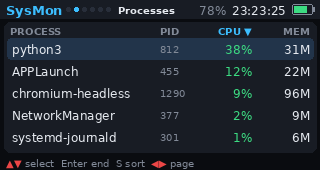
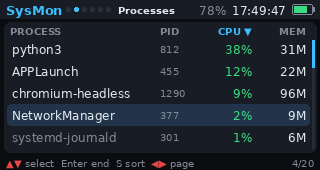
SysMon 1.1.5: scrolling list of top 20 processes
Processes page now keeps the top 20 by CPU or memory in a scrolling list (F/X to scroll) with a scroll bar and position counter. The highlight follows the selected process when the list re-sorts. System (root-owned) processes are shown in gray, and the end-process prompt explains they need admin rights. Addresses #1.

diff --git a/sysmon.py b/sysmon.py
@@ -5,7 +5,7 @@ Draws straight to the Linux framebuffer (320x170) with Pillow.
 
 Pages
   1 Overview   CPU total/cores/history, RAM, temperature, battery
-  2 Processes  top 5 by CPU or memory, end a process from the keyboard
+  2 Processes  top 20 by CPU or memory (scrolls), end a process from the keyboard
   3 Network    interfaces, Wi-Fi signal, live download/upload speed graph
   4 Power      temperature history, battery time estimate, disk, uptime
   5 Level      bubble level from the BMI270 motion sensor
@@ -44,7 +44,7 @@ try:
 except ImportError:
     HAS_NUMPY = False
 
-VERSION = "1.1.4"
+VERSION = "1.1.5"
 
 # --------------------------------------------------------------------------
 # Constants
@@ -58,6 +58,8 @@ TEMP_HISTORY = 240    # seconds
 SOUND_HISTORY = 100   # samples at ~10 Hz
 BUBBLE_RANGE_DEG = 18.0  # same full-scale tilt as the official Compass app
 
+PROC_LIST = 20      # processes kept in the scrolling list
+PROC_ROWS = 5       # rows visible at once
 PAGES = ["Overview", "Processes", "Network", "Power", "Level", "Sound"]
 P_OVERVIEW, P_PROCS, P_NET, P_POWER, P_LEVEL, P_SOUND = range(6)
 FRAME_INTERVAL = {P_LEVEL: 1.0 / 15, P_SOUND: 1.0 / 10}  # others: 1 s
@@ -499,6 +501,7 @@ class ProcStats:
                     stat = f.read()
                 with open(pid_dir + "/statm") as f:
                     rss_pages = int(f.read().split()[1])
+                uid = os.stat(pid_dir).st_uid
             except (OSError, ValueError, IndexError):
                 continue
             lp, rp = stat.find("("), stat.rfind(")")
@@ -517,7 +520,7 @@ class ProcStats:
             cpu = 0.0
             if dt and pid in self.prev:
                 cpu = 100.0 * (ticks - self.prev[pid]) / (dt * CLK_TCK)
-            rows.append({"pid": pid, "name": name, "cpu": max(0.0, cpu), "rss": rss_mb,
+            rows.append({"pid": pid, "name": name, "uid": uid, "cpu": max(0.0, cpu), "rss": rss_mb,
                          "mem": 100.0 * rss_mb / max(1.0, mem_total_mb)})
         self.ready = dt is not None
         self.prev, self.prev_t = cur, now
@@ -528,8 +531,14 @@ class ProcStats:
         key = "cpu" if self.sort_by == "cpu" else "rss"
         self.rows.sort(key=lambda r: (r[key], r["rss"]), reverse=True)
 
-    def top(self, n=5):
+    def top(self, n=PROC_LIST):
         return self.rows[:n]
+
+    def index_of(self, pid, n=PROC_LIST):
+        for i, r in enumerate(self.rows[:n]):
+            if r["pid"] == pid:
+                return i
+        return None
 
 
 # -- motion sensor ---------------------------------------------------------
@@ -1023,25 +1032,49 @@ class Renderer:
         d.text((160, 25), "PID", font=self.f_smb, fill=DIM)
         self.text_right(d, 252, 25, "CPU" + (" ▼" if sort_cpu else ""), self.f_smb,
                         CYAN if sort_cpu else DIM)
-        self.text_right(d, 310, 25, "MEM" + ("" if sort_cpu else " ▼"), self.f_smb,
+        self.text_right(d, 306, 25, "MEM" + ("" if sort_cpu else " ▼"), self.f_smb,
                         DIM if sort_cpu else CYAN)
-        rows = procs.top(5)
+        rows = procs.top()
+        # keep the highlight on the same process when the list re-sorts
+        idx = procs.index_of(ui.get("sel_pid"))
+        if idx is not None:
+            ui["sel"] = idx
+        ui["sel"] = min(ui["sel"], max(0, len(rows) - 1))
+        first = ui.get("first", 0)
+        if ui["sel"] < first:
+            first = ui["sel"]
+        elif ui["sel"] >= first + PROC_ROWS:
+            first = ui["sel"] - PROC_ROWS + 1
+        first = max(0, min(first, max(0, len(rows) - PROC_ROWS)))
+        ui["first"] = first
+        me = os.getuid()
         y = 39
-        for i, r in enumerate(rows):
+        for i, r in enumerate(rows[first:first + PROC_ROWS], start=first):
             selected = i == ui["sel"]
             if selected:
-                d.rounded_rectangle((7, y - 1, 313, y + 20), radius=4, fill=SEL)
+                d.rounded_rectangle((7, y - 1, 309 if len(rows) > PROC_ROWS else 313, y + 20),
+                                    radius=4, fill=SEL)
             name = r["name"] if len(r["name"]) <= 17 else r["name"][:16] + "…"
-            d.text((12, y + 3), name, font=self.f_reg, fill=TEXT)
+            mine = me == 0 or r.get("uid", me) == me
+            d.text((12, y + 3), name, font=self.f_reg, fill=TEXT if mine else DIM)
             d.text((160, y + 4), str(r["pid"]), font=self.f_sm, fill=DIM)
             cpu_txt = "{:.0f}%".format(r["cpu"]) if procs.ready else "…"
             self.text_right(d, 252, y + 3, cpu_txt, self.f_reg,
                             level_color(r["cpu"], 50, 90) if procs.ready else DIM)
-            self.text_right(d, 310, y + 3, fmt_mb(r["rss"]), self.f_reg, TEXT)
+            self.text_right(d, 306, y + 3, fmt_mb(r["rss"]), self.f_reg, TEXT)
             y += 22
+        if len(rows) > PROC_ROWS:
+            # scroll bar on the right edge of the panel
+            tr = (312, 40, 314, 148)
+            d.rectangle(tr, fill=(40, 44, 52))
+            span = tr[3] - tr[1]
+            h = max(8, span * PROC_ROWS // len(rows))
+            top = tr[1] + (span - h) * first // max(1, len(rows) - PROC_ROWS)
+            d.rectangle((tr[0], top, tr[2], top + h), fill=CYAN)
         if not rows:
             d.text((12, 60), "reading processes…", font=self.f_reg, fill=DIM)
-        self.footer(d, "▲▼ select  Enter end  S sort  ◀▶ page")
+        pos = "{}/{}".format(ui["sel"] + 1, len(rows)) if rows else None
+        self.footer(d, "▲▼ select  Enter end  S sort  ◀▶ page", pos, DIM)
         if ui.get("confirm"):
             r = ui["confirm"]
             box = (40, 52, 280, 122)
@@ -1049,7 +1082,11 @@ class Renderer:
             self.text_center(d, 160, 60, "End this process?", self.f_med, TEXT)
             nm = r["name"] if len(r["name"]) <= 22 else r["name"][:21] + "…"
             self.text_center(d, 160, 80, "{}  (PID {})".format(nm, r["pid"]), self.f_reg, YELLOW)
-            self.text_center(d, 160, 100, "Y = end     N / ESC = cancel", self.f_sm, DIM)
+            if os.getuid() != 0 and r.get("uid", os.getuid()) != os.getuid():
+                self.text_center(d, 160, 98, "System process: needs admin rights", self.f_sm, ORANGE)
+                self.text_center(d, 160, 110, "Y = try anyway   N / ESC = cancel", self.f_sm, DIM)
+            else:
+                self.text_center(d, 160, 100, "Y = end     N / ESC = cancel", self.f_sm, DIM)
 
     # -- page 3: network --
     def page_net(self, d, s):
@@ -1509,7 +1546,7 @@ class App:
         if page == P_PROCS:
             self.c.procs.reset()
             self.c.procs.sample(self.c.s.get("mem", (0, 0, 1))[2])
-            self.ui["sel"] = 0
+            self.ui.update(sel=0, first=0, sel_pid=None)
         if page == P_SOUND:
             self.c.mic.start()
 
@@ -1547,18 +1584,19 @@ class App:
         elif code in NUM_KEYS:
             self.set_page(NUM_KEYS[code])
         elif self.page == P_PROCS:
-            n = len(self.c.procs.top(5))
-            if code in (KEY_UP, KEY_SEMICOLON, KEY_F):
-                ui["sel"] = max(0, ui["sel"] - 1)
-            elif code in (KEY_DOWN, KEY_DOT, KEY_X):
-                ui["sel"] = min(max(0, n - 1), ui["sel"] + 1)
+            rows = self.c.procs.top()
+            n = len(rows)
+            if code in (KEY_UP, KEY_SEMICOLON, KEY_F, KEY_DOWN, KEY_DOT, KEY_X) and n:
+                step = -1 if code in (KEY_UP, KEY_SEMICOLON, KEY_F) else 1
+                ui["sel"] = max(0, min(n - 1, min(ui["sel"], n - 1) + step))
+                ui["sel_pid"] = rows[ui["sel"]]["pid"]
             elif code == KEY_S:
                 p = self.c.procs
                 p.sort_by = "mem" if p.sort_by == "cpu" else "cpu"
                 p.sort()
-                ui["sel"] = 0
+                ui["sel"], ui["first"], ui["sel_pid"] = 0, 0, None
             elif code in (KEY_ENTER, KEY_K) and n:
-                ui["confirm"] = dict(self.c.procs.top(5)[min(ui["sel"], n - 1)])
+                ui["confirm"] = dict(rows[min(ui["sel"], n - 1)])
         elif self.page == P_SOUND:
             if code in (KEY_ENTER, KEY_SPACE):
                 if self.c.mic.calibrate():
@@ -1598,8 +1636,18 @@ def mock_collector():
         {"pid": 455, "name": "APPLaunch", "cpu": 12.0, "rss": 22.8, "mem": 5.3},
         {"pid": 1290, "name": "chromium-headless", "cpu": 9.0, "rss": 96.4, "mem": 22.6},
         {"pid": 377, "name": "NetworkManager", "cpu": 2.0, "rss": 9.1, "mem": 2.1},
-        {"pid": 301, "name": "systemd-journald", "cpu": 1.0, "rss": 6.4, "mem": 1.5},
+        {"pid": 301, "name": "systemd-journald", "cpu": 1.0, "rss": 6.4, "mem": 1.5, "uid": 0},
     ]
+    extra = [("sshd", 0), ("bash", None), ("wpa_supplicant", 0), ("pipewire", None),
+             ("systemd", 0), ("dbus-daemon", 0), ("avahi-daemon", 0), ("cron", 0),
+             ("systemd-logind", 0), ("wireplumber", None), ("agetty", 0),
+             ("systemd-udevd", 0), ("ModemManager", 0), ("polkitd", 0), ("rsyslogd", 0)]
+    for i, (nm, uid) in enumerate(extra):
+        row = {"pid": 520 + i * 37, "name": nm, "cpu": max(0.0, 0.8 - i * 0.05),
+               "rss": 5.8 - i * 0.3, "mem": 1.2 - i * 0.05}
+        if uid is not None:
+            row["uid"] = uid
+        c.procs.rows.append(row)
     c.procs.ready = True
     temps = deque([48 + 6 * math.sin(i / 30.0) + (4 if 150 < i < 190 else 0)
                    for i in range(TEMP_HISTORY)], maxlen=TEMP_HISTORY)
@@ -1642,9 +1690,9 @@ def preview(path, page, mock=False, confirm=False):
             c.fast(page)
     app = App(c)
     app.page = page
-    if confirm and c.procs.top(5):
+    if confirm and c.procs.top():
         app.ui["sel"] = 2
-        app.ui["confirm"] = dict(c.procs.top(5)[2])
+        app.ui["confirm"] = dict(c.procs.top()[2])
     img = Renderer().render(page, c.s, app.ui)
     img.save(path)
     c.mic.stop() if not mock else None

diff --git a/README.md b/README.md
@@ -11,7 +11,7 @@ A six-page system monitor for the M5Stack CardputerZero's 320×170 screen.
 | # | Page | Shows |
 |---|---|---|
 | 1 | Overview | CPU % with a 60-second graph, per-core bars, RAM, temperature, battery and time left |
-| 2 | Processes | The top 5 programs by CPU or memory; end one from the keyboard |
+| 2 | Processes | The top 20 programs by CPU or memory in a scrolling list; end one from the keyboard |
 | 3 | Network | Interfaces and IPs, Wi-Fi name and signal, live download/upload speed graph |
 | 4 | Power | 4-minute temperature graph, battery "time left" / "full in", voltage/current, disk, uptime |
 | 5 | Level | Bubble level with pitch, roll and tilt, from the built-in motion sensor (not on the Lite model) |
@@ -24,7 +24,7 @@ A six-page system monitor for the M5Stack CardputerZero's 320×170 screen.
 | ◀ ▶ (the Z / C keys) or Tab | Previous / next page |
 | 1 – 6 | Jump to a page |
 | ESC or Q | Quit (or cancel a prompt) |
-| **Processes:** ▲ ▼ (the F / X keys) | Select a program |
+| **Processes:** ▲ ▼ (the F / X keys) | Scroll through the list and select a program |
 | **Processes:** Enter or K, then Y | End the selected program |
 | **Processes:** S | Sort by CPU or memory |
 | **Level:** Enter | Use the current angle as zero (calibrate on a surface you know is flat) |
@@ -32,16 +32,16 @@ A six-page system monitor for the M5Stack CardputerZero's 320×170 screen.
 | **Sound:** Enter | Calibrate: press in a quiet room to save that as "quiet" (kept between runs) |
 | **Sound:** X | Clear the sound calibration |
 
-Ending a process sends it a normal "please stop" signal (SIGTERM). Programs owned by another user or by the system can't be ended unless SysMon runs as root. The Sound page uses the microphone only while that page is open, and doesn't record anything. It ignores low-frequency hum (below 150 Hz). Once calibrated it shows how many dB the room is above your quiet reference. Readings are relative, not a certified sound-level (dB SPL) measurement.
+Ending a process sends it a normal "please stop" signal (SIGTERM). System programs (owned by root or another user) are shown in gray. SysMon deliberately doesn't have admin rights, so it can't end those; if you really need to, connect over SSH and run `sudo kill <PID>` using the PID shown in the list. The Sound page uses the microphone only while that page is open, and doesn't record anything. It ignores low-frequency hum (below 150 Hz). Once calibrated it shows how many dB the room is above your quiet reference. Readings are relative, not a certified sound-level (dB SPL) measurement.
 
 ## Install / update
 
 Download the `.deb` from [Releases](https://github.com/duanesweazy1/pocket-sysmon/releases). Then, from PowerShell (Windows) or a terminal on your PC (use your Cardputer username and the IP shown in its **IP Panel** app):
 
 ```
-scp pocket-sysmon_1.1.4-rev1_arm64.deb YOURUSER@DEVICE-IP:/tmp/
+scp pocket-sysmon_1.1.5-rev1_arm64.deb YOURUSER@DEVICE-IP:/tmp/
 ssh YOURUSER@DEVICE-IP
-sudo apt install /tmp/pocket-sysmon_1.1.4-rev1_arm64.deb
+sudo apt install /tmp/pocket-sysmon_1.1.5-rev1_arm64.deb
 sudo reboot
 ```
 
